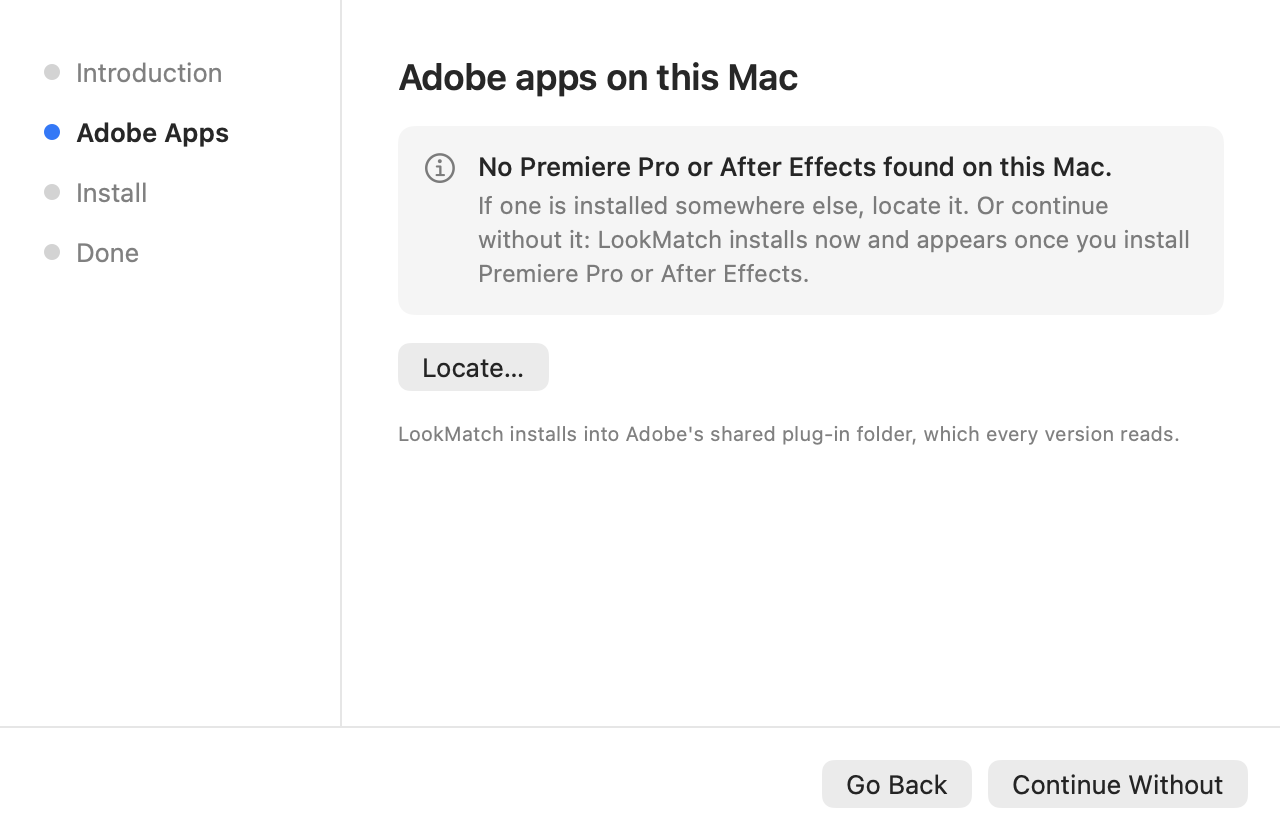
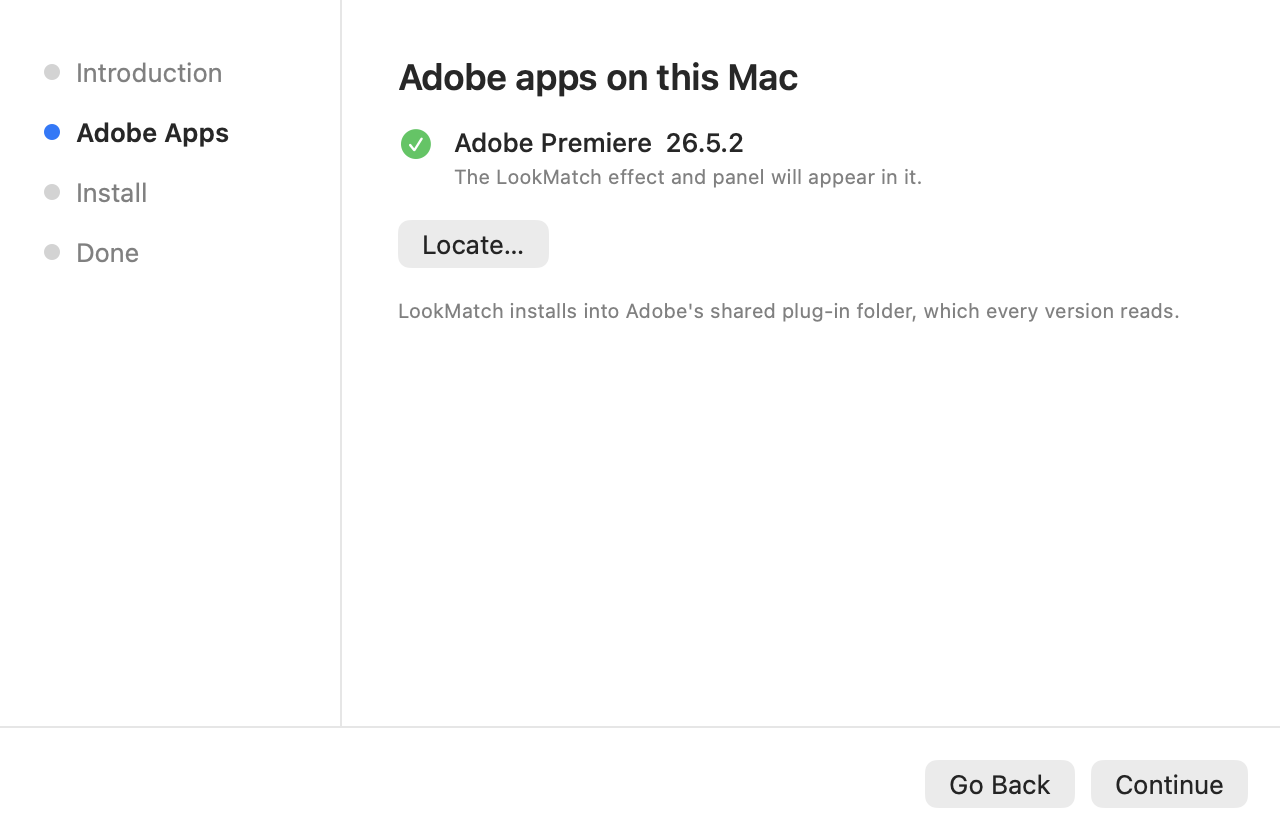
Installer: don't report the panel installed when Adobe's agent fails; ccx on the dmg; quiet test builds
Tested the updated installer from main (build_app.sh with the Premiere 27.0 SDK:
GPU render enabled, plug-in exports xGPUFilterEntry, release panel .ccx embedded,
app signature valid, Premiere 26.5.2 detected).

- UnifiedPluginInstallerAgent exits with 0 even when it fails (on this Mac,
  with Creative Cloud running: "Failed to install, status = -644!"), so the app
  claimed the panel was installed. It now also requires "Installation
  Successful" in the agent's output, and the failure message points to the
  copy of LookMatchPanel.ccx now placed next to the app on the dmg
- New snapshot 8-done-panel-failed; installer screenshots refreshed
- gpu_tests/gpu_bench build for macOS 10.13 (Metal dispatchThreads), no C++20
  structured-binding capture: no warnings

diff --git a/installer/mac/LookMatchInstaller/InstallerApp.swift b/installer/mac/LookMatchInstaller/InstallerApp.swift
@@ -181,7 +181,8 @@ func installPanel(hosts: [HostApp]) -> PanelResult {
     // Remove an older copy first: the agent won't replace a panel of the same version.
     _ = run(["--remove", "LookMatch"])
     let (status, out) = run(["--install", ccx.path])
-    if status == 0 { return .installed }
+    // The agent exits with 0 even when it fails ("Failed to install, status = -644!"), so read its output.
+    if status == 0 && out.contains("Installation Successful") { return .installed }
     let detail = out.split(separator: "\n").last(where: { !$0.hasPrefix("Creative Cloud") && !$0.isEmpty })
     return .failed(detail.map(String.init) ?? "Adobe's plug-in installer stopped with code \(status).")
 }
@@ -445,7 +446,7 @@ func panelNote(_ result: PanelResult) -> String {
     case .noPremiere: return ""
     case .noInstaller: return "The panel wasn't installed because Adobe's plug-in installer is missing. Open Creative Cloud once, then run this installer again. The effect works without it."
     case .missingPayload: return "This installer doesn't include the panel. The effect works without it."
-    case .failed(let msg): return "The panel couldn't be installed (\(msg)). The effect works without it; run this installer again to retry."
+    case .failed(let msg): return "The panel couldn't be installed (\(msg)). The effect works without it. To add the panel, double-click LookMatchPanel.ccx on this installer's disk (Creative Cloud installs it), or run this installer again."
     }
 }
 
@@ -537,6 +538,7 @@ final class AppDelegate: NSObject, NSApplicationDelegate {
             ("5-installing", { model.installing = true }),
             ("6-install-cancelled", { model.installing = false; model.installCancelled = true }),
             ("7-done", { model.installCancelled = false; model.panelResult = .installed; model.step = .done }),
+            ("8-done-panel-failed", { model.panelResult = .failed("Failed to install, status = -644!") }),
         ]
         for (name, apply) in shots {
             apply()

diff --git a/tests/gpu_bench.mm b/tests/gpu_bench.mm
@@ -14,7 +14,8 @@ int main() {
         id<MTLComputePipelineState> pso = [dev newComputePipelineStateWithFunction:[lib newFunctionWithName:@"lookmatch_f32"] error:&err];
         id<MTLCommandQueue> q = [dev newCommandQueue];
         printf("GPU: %s\n", dev.name.UTF8String);
-        for (auto [w, h] : {std::pair{1920, 1080}, std::pair{3840, 2160}}) {
+        for (auto size : {std::pair{1920, 1080}, std::pair{3840, 2160}}) {
+            const int w = size.first, h = size.second;
             Params p; p.filmStrength = 0.9f; p.grain = 0.3f; p.vignette = 0.2f;
             Engine e; e.setParams(p);
             std::vector<float> src(size_t(w) * h * 4, 0.5f), dst(src.size());
